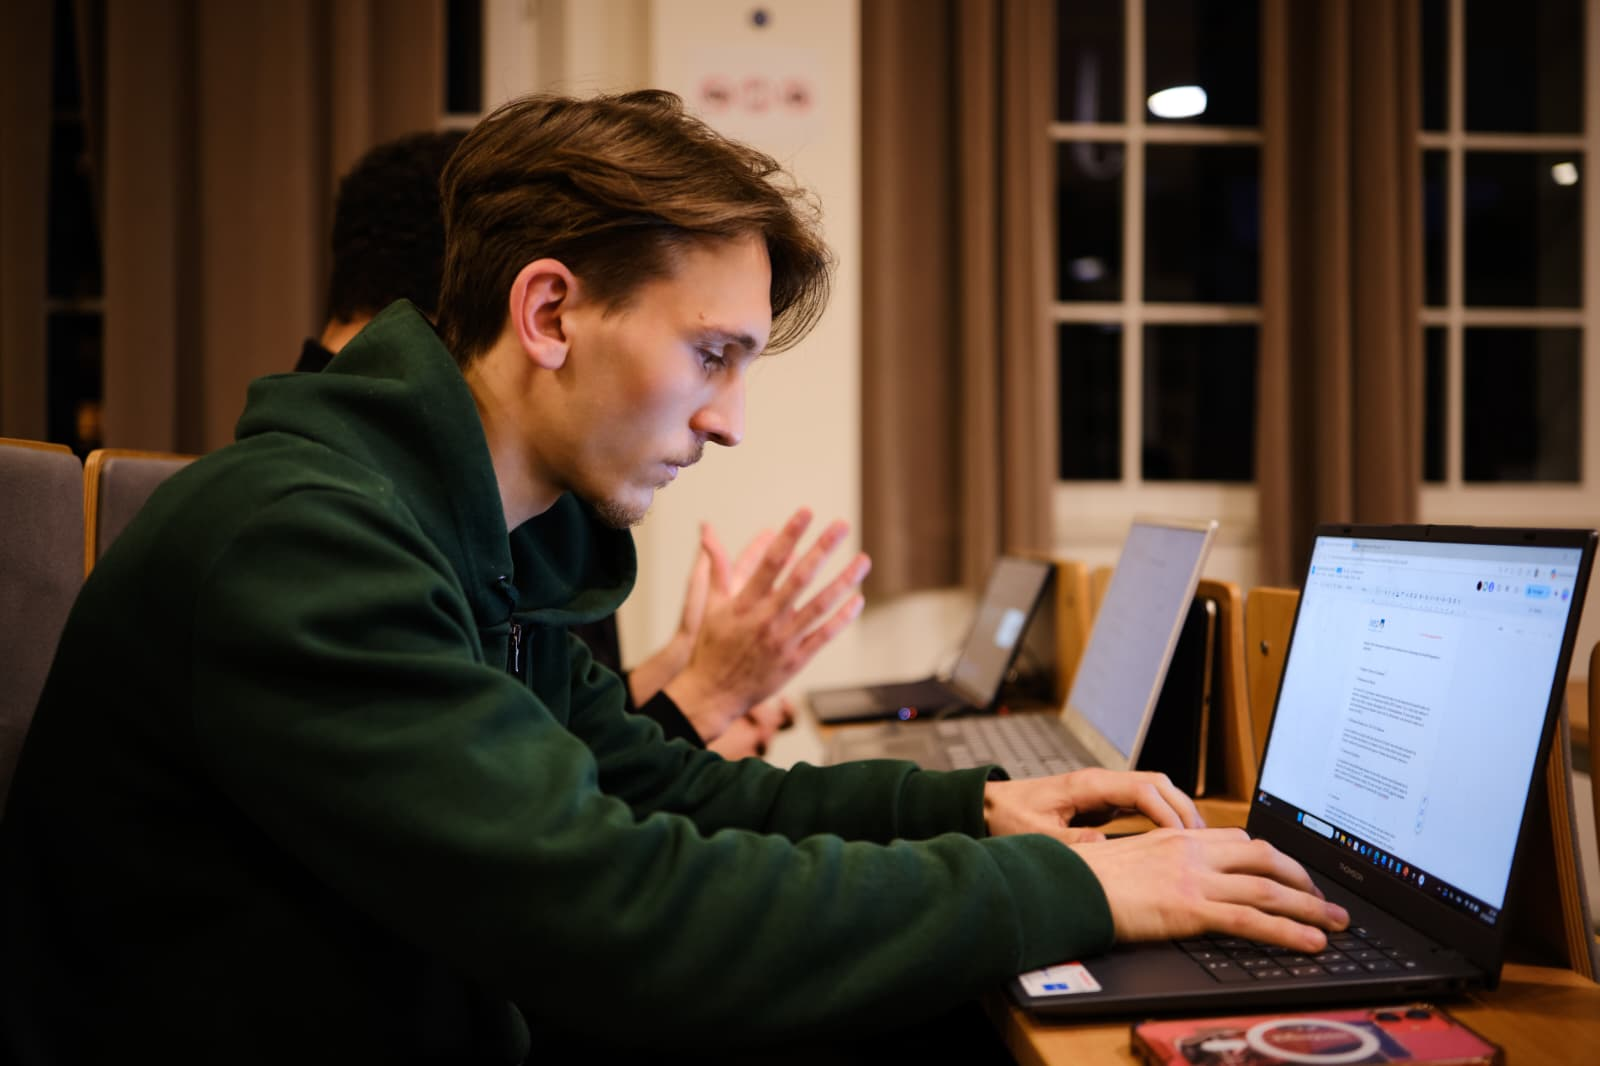
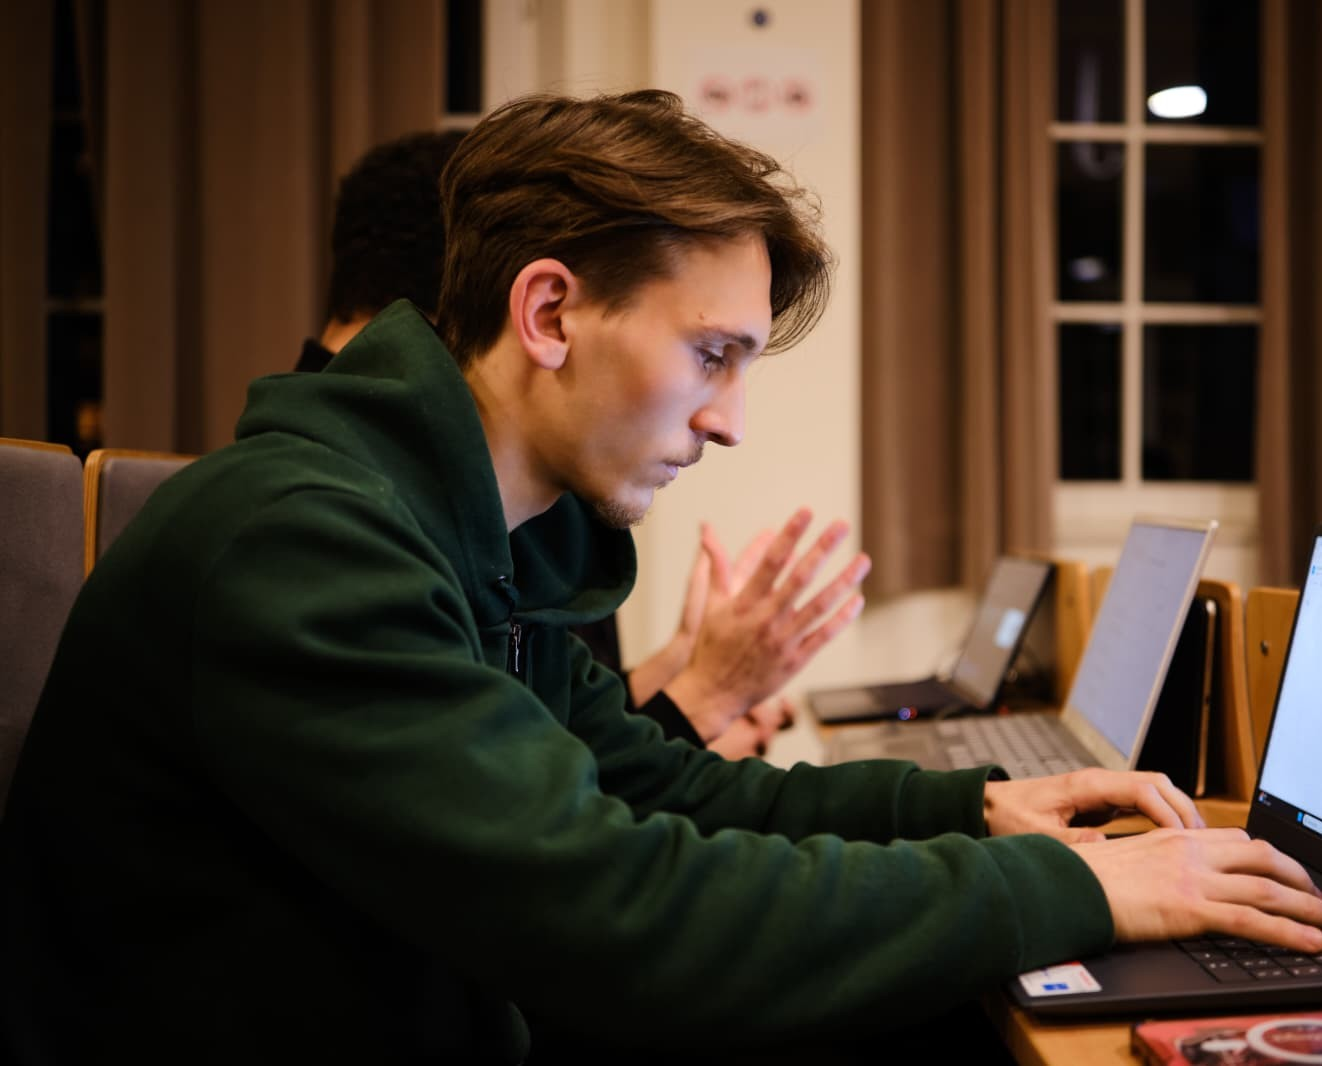
push maj2streamlit

diff --git a/streamlit_app/app.py b/streamlit_app/app.py
@@ -64,6 +64,10 @@ def apply_home_css():
             box-shadow: 0 4px 15px rgba(0, 0, 0, 0.3);
             margin: 10px 0;
             transition: transform 0.2s;
+            display: flex;
+            flex-direction: column;
+            justify-content: space-between;
+            height: 420px;
         }
         
         .project-card:hover {
@@ -103,14 +107,16 @@ def apply_home_css():
         [data-testid="stSidebar"] {
             background-color: #0a0e27 !important;
             background-image: none !important;
+            min-width: 230px !important;
+            max-width: 230px !important;
         }
         [data-testid="stSidebar"] * {
             color: #e8e8e8 !important;
         }
         
-        /* Hide Streamlit top header and top margin padding */
+        /* Hide Streamlit top header background but keep it clickable for sidebar expand */
         header[data-testid="stHeader"] {
-            display: none !important;
+            background: transparent !important;
         }
         .block-container {
             padding-top: 2rem !important;
@@ -174,8 +180,14 @@ def apply_home_css():
 
 def render_sidebar():
     with st.sidebar:
-        st.image("https://img.icons8.com/fluency/96/000000/python.png", width=80)
-        st.markdown("### 📊 Quantitative Finance Portfolio")
+        logo_path = os.path.join(os.path.dirname(os.path.abspath(__file__)), "images", "logo.png")
+        
+        _, col_logo, _ = st.columns([1, 7, 1])
+        with col_logo:
+            if os.path.exists(logo_path):
+                st.image(logo_path, use_container_width=True)
+                
+        st.markdown("<h3 style='text-align: center; margin-top: -10px;'>Finance Portfolio</h3>", unsafe_allow_html=True)
         st.markdown("---")
         
         options = ["Home", "Pipeline Macro-Quantitative", "Equity Research"]
@@ -207,13 +219,13 @@ def render_sidebar():
         st.markdown("---")
         st.markdown("### 🔧 Tech Stack")
         st.markdown("""
-        - Python 🐍
-        - Streamlit 🎈
-        - Pandas & NumPy 📊
-        - Plotly & Matplotlib 📈
-        - VectorBT 📉
-        - Apache Airflow 🔄
-        - Scikit-learn 🤖
+        - Python 
+        - Streamlit 
+        - Pandas & NumPy 
+        - Plotly & Matplotlib 
+        - VectorBT 
+        - Apache Airflow 
+        - Scikit-learn 
         """)
         
         st.markdown("---")
@@ -240,31 +252,23 @@ def render_home():
             st.image(img_path, width=400)
         else:
             st.image("https://img.icons8.com/fluency/256/000000/financial-analytics.png", width=200)
-        st.markdown("""
-        <div class="metric-container">
-            <h4>📍 Profile</h4>
-            <p><strong>Location:</strong> Global 🌍</p>
-            <p><strong>Focus:</strong> Quantitative Finance</p>
-            <p><strong>Experience:</strong> Python, Data Engineering, Financial Modeling</p>
-        </div>
-        """, unsafe_allow_html=True)
-    
+        
     with col2:
         st.markdown("### 💻 About Me")
         st.markdown("""
         Passionate engineer who likes building financial models, 
-        data pipelines, and some fun trading strategies.
+        data pipelines, and some fun trading strategies.""")
 
-        
-        **Core Competencies:**
-        - 📊 Macro quantitative Analysis & Statistical Modeling
-        - 🤖 Algorithmic Trading & Backtesting
-        - 🔄 Data Engineering & ETL Pipelines (Apache Airflow)
-        - 📈 Financial Derivatives & Risk Management
-        - 🐍 Python Development
-        """)
-        
-
+        st.markdown("""
+        <div class="metric-container">
+            <h4>📍 Profile</h4>
+            <p><strong>Location:</strong> Paris et Sud de France </p>
+            <p><strong>Focus:</strong> Macro-Quantitative</p>
+            <p><strong>Experience:</strong> Python, Data Engineering, Financial Modeling</p>
+        </div>
+        """, unsafe_allow_html=True)
+    
+    
     st.markdown("---")
     
     # Projects Grid
@@ -395,8 +399,11 @@ if st.session_state.scroll_to_top:
     components.html(
         '''
         <script>
-            var body = window.parent.document.querySelector(".main");
-            if (body) { body.scrollTo(0, 0); }
+            setTimeout(function() {
+                var body = window.parent.document.querySelector(".main");
+                if (body) { body.scrollTo(0, 0); }
+                window.parent.scrollTo(0, 0);
+            }, 200);
         </script>
         ''',
         height=0
@@ -418,12 +425,12 @@ elif st.session_state.current_page == "Pipeline Macro-Quantitative":
 
 elif st.session_state.current_page == "Equity Research":
     with st.sidebar:
-        if st.button("⬅ Retour au Home", use_container_width=True):
+        if st.button("⬅ Back to home", use_container_width=True):
             st.session_state.current_page = "Home"
             st.session_state.scroll_to_top = True
             st.rerun()
     st.title("Equity Research")
-    st.write("Page en cours de construction...")
+    st.write("Page under construction...")
 
 else:
     st.session_state.current_page = "Home"

diff --git a/streamlit_app/macro_projet/data_loader.py b/streamlit_app/macro_projet/data_loader.py
@@ -17,9 +17,9 @@ QUADRANT_COLORS = {1: 'green', 2: 'orange', 3: 'red', 4: 'blue'}
 
 ALLOCATIONS = {
     1: {"SP500": 30, "NASDAQ": 40, "SmallCAP": 30},
-    2: {"SP500": 40, "GOLD": 30, "COMMODITIES": 20, "NASDAQ": 10},
-    3: {"GOLD": 60, "COMMODITIES": 20, "TREASURY": 20},
-    4: {"TREASURY": 60, "GOLD": 40}
+    2: {"SP500": 40, "SmallCAP": 30, "NASDAQ": 30},
+    3: {"GOLD": 40, "COMMODITIES": 30, "TREASURY": 30},
+    4: {"TREASURY": 50, "GOLD": 30, "Obligation": 20}   
 }
 
 
@@ -160,6 +160,8 @@ BLOOMBERG_CSS = """
     /* Sidebar styling */
     [data-testid="stSidebar"] {
         background: linear-gradient(180deg, #1a1d35 0%, #0a0e27 100%) !important;
+        min-width: 230px !important;
+        max-width: 230px !important;
     }
     [data-testid="stSidebar"] * {
         color: #e8e8e8 !important;
@@ -262,9 +264,19 @@ def apply_theme():
 def render_sidebar(data):
     """Render the shared sidebar."""
     with st.sidebar:
-                
+        current_dir = os.path.dirname(os.path.abspath(__file__))
+        project_root = os.path.dirname(current_dir)
+        logo_path = os.path.join(project_root, "images", "logo.png")
         
-        st.subheader("📊 État du Pipeline")
+        _, col_logo, _ = st.columns([1, 6, 1])
+        with col_logo:
+            if os.path.exists(logo_path):
+                st.image(logo_path, use_container_width=True)
+                
+        st.markdown("<h3 style='text-align: center; margin-top: -10px;'>Macro Pipeline</h3>", unsafe_allow_html=True)
+        st.markdown("---")
+        
+        st.subheader("État du Pipeline")
         
         if data['quadrants'] is not None:
             last_date = data['quadrants']['date'].max()
@@ -293,4 +305,3 @@ def render_sidebar(data):
         
         st.divider()
         
-        st.caption("Made with ❤ using Streamlit")

diff --git a/streamlit_app/macro_projet/views/Monitoring.py b/streamlit_app/macro_projet/views/Monitoring.py
@@ -37,36 +37,10 @@ def render(data):
         st.plotly_chart(fig_trend, use_container_width=True)
 
         dominant_q = q_counts.idxmax()
-        st.info(f"Le modele selectionne le **Mode (Valeur la plus frequente)** sur 18 jours. Tendance actuelle : **Q{dominant_q} {QUADRANT_NAMES.get(dominant_q)}** avec {q_counts.max()} jours.")
+    st.info(f"Le modele selectionne le **Mode (Valeur la plus frequente)** sur 18 jours. Tendance actuelle : **Q{dominant_q} {QUADRANT_NAMES.get(dominant_q)}** avec {q_counts.max()} jours.")
 
     st.divider()
 
-    # === Full Distribution (All time) ===
-    st.subheader("Repartition Globale des Quadrants (Brut)")
-    if data['quadrants'] is not None:
-        all_data = data['quadrants'].copy()
-        q_counts_all = all_data['assigned_quadrant'].value_counts().reindex([1, 2, 3, 4], fill_value=0)
-
-        fig_all = go.Figure(data=[go.Bar(
-            x=[f"Q{i} {QUADRANT_NAMES.get(i)}" for i in [1, 2, 3, 4]],
-            y=q_counts_all.values,
-            marker_color=[QUADRANT_COLORS[i] for i in [1, 2, 3, 4]],
-            text=q_counts_all.values,
-            textposition='auto',
-        )])
-
-        fig_all.update_layout(
-            title="Repartition des Quadrants (Brut)",
-            yaxis_title="Nombre de Jours",
-            height=300,
-            margin=dict(l=20, r=20, t=40, b=20)
-        )
-        st.plotly_chart(fig_all, use_container_width=True)
-
-        dominant_q = q_counts_all.idxmax()
-        st.info(f"Repartition globale (Brut) : **Q{dominant_q} {QUADRANT_NAMES.get(dominant_q)}** avec {q_counts_all.max()} jours.")
-
-    st.divider()
 
     # === Smooth Quadrant Distribution (from Backtest) ===
     st.subheader("Repartition des Quadrants Lisses (Backtest Complet)")

diff --git a/streamlit_app/macro_projet/app_macro.py b/streamlit_app/macro_projet/app_macro.py
@@ -20,11 +20,10 @@ from views import Monitoring, Backtest, ML_Performance, Methodologie, Correlatio
 def render():
     # Optional button to return to home inside the main page, or side-bar
     with st.sidebar:
-        if st.button("⬅ Retour au Home", use_container_width=True):
+        if st.button("⬅ Back to Home", use_container_width=True):
             st.session_state.current_page = "Home"
             st.session_state.scroll_to_top = True
             st.rerun()
-        st.markdown("---")
 
     # --- THEME & DATA ---
     apply_theme()
@@ -97,24 +96,24 @@ def render():
     
     # --- TAB NAVIGATION (no emojis, side by side) ---
     tab1, tab2, tab3, tab4, tab5 = st.tabs([
+        "Methodologie",
         "Monitoring",
         "Backtest & Perf",
         "ML Performance",
-        "Methodologie",
         "Correlation & Indicators"
     ])
     
     with tab1:
-        Monitoring.render(data)
+        Methodologie.render(data)
     
     with tab2:
-        Backtest.render(data)
+        Monitoring.render(data)
     
     with tab3:
-        ML_Performance.render(data)
+        Backtest.render(data)
     
     with tab4:
-        Methodologie.render(data)
+        ML_Performance.render(data)
     
     with tab5:
         Correlation_Indicators.render(data)

diff --git a/streamlit_app/macro_projet/views/Methodologie.py b/streamlit_app/macro_projet/views/Methodologie.py
@@ -22,7 +22,10 @@ def render(data):
             import os
             from PIL import Image
             current_dir = os.path.dirname(os.path.abspath(__file__))
-            image_path = os.path.join(os.path.dirname(current_dir), "images", "architecture.png")
+            # current_dir is streamlit_app/macro_projet/views
+            # project_root is streamlit_app/
+            project_root = os.path.dirname(os.path.dirname(current_dir))
+            image_path = os.path.join(project_root, "images", "architecture.png")
             img = Image.open(image_path)
             st.image(img, caption="Architecture Data Engineering & ML Pipeline", use_container_width=True)
         except Exception as e:
